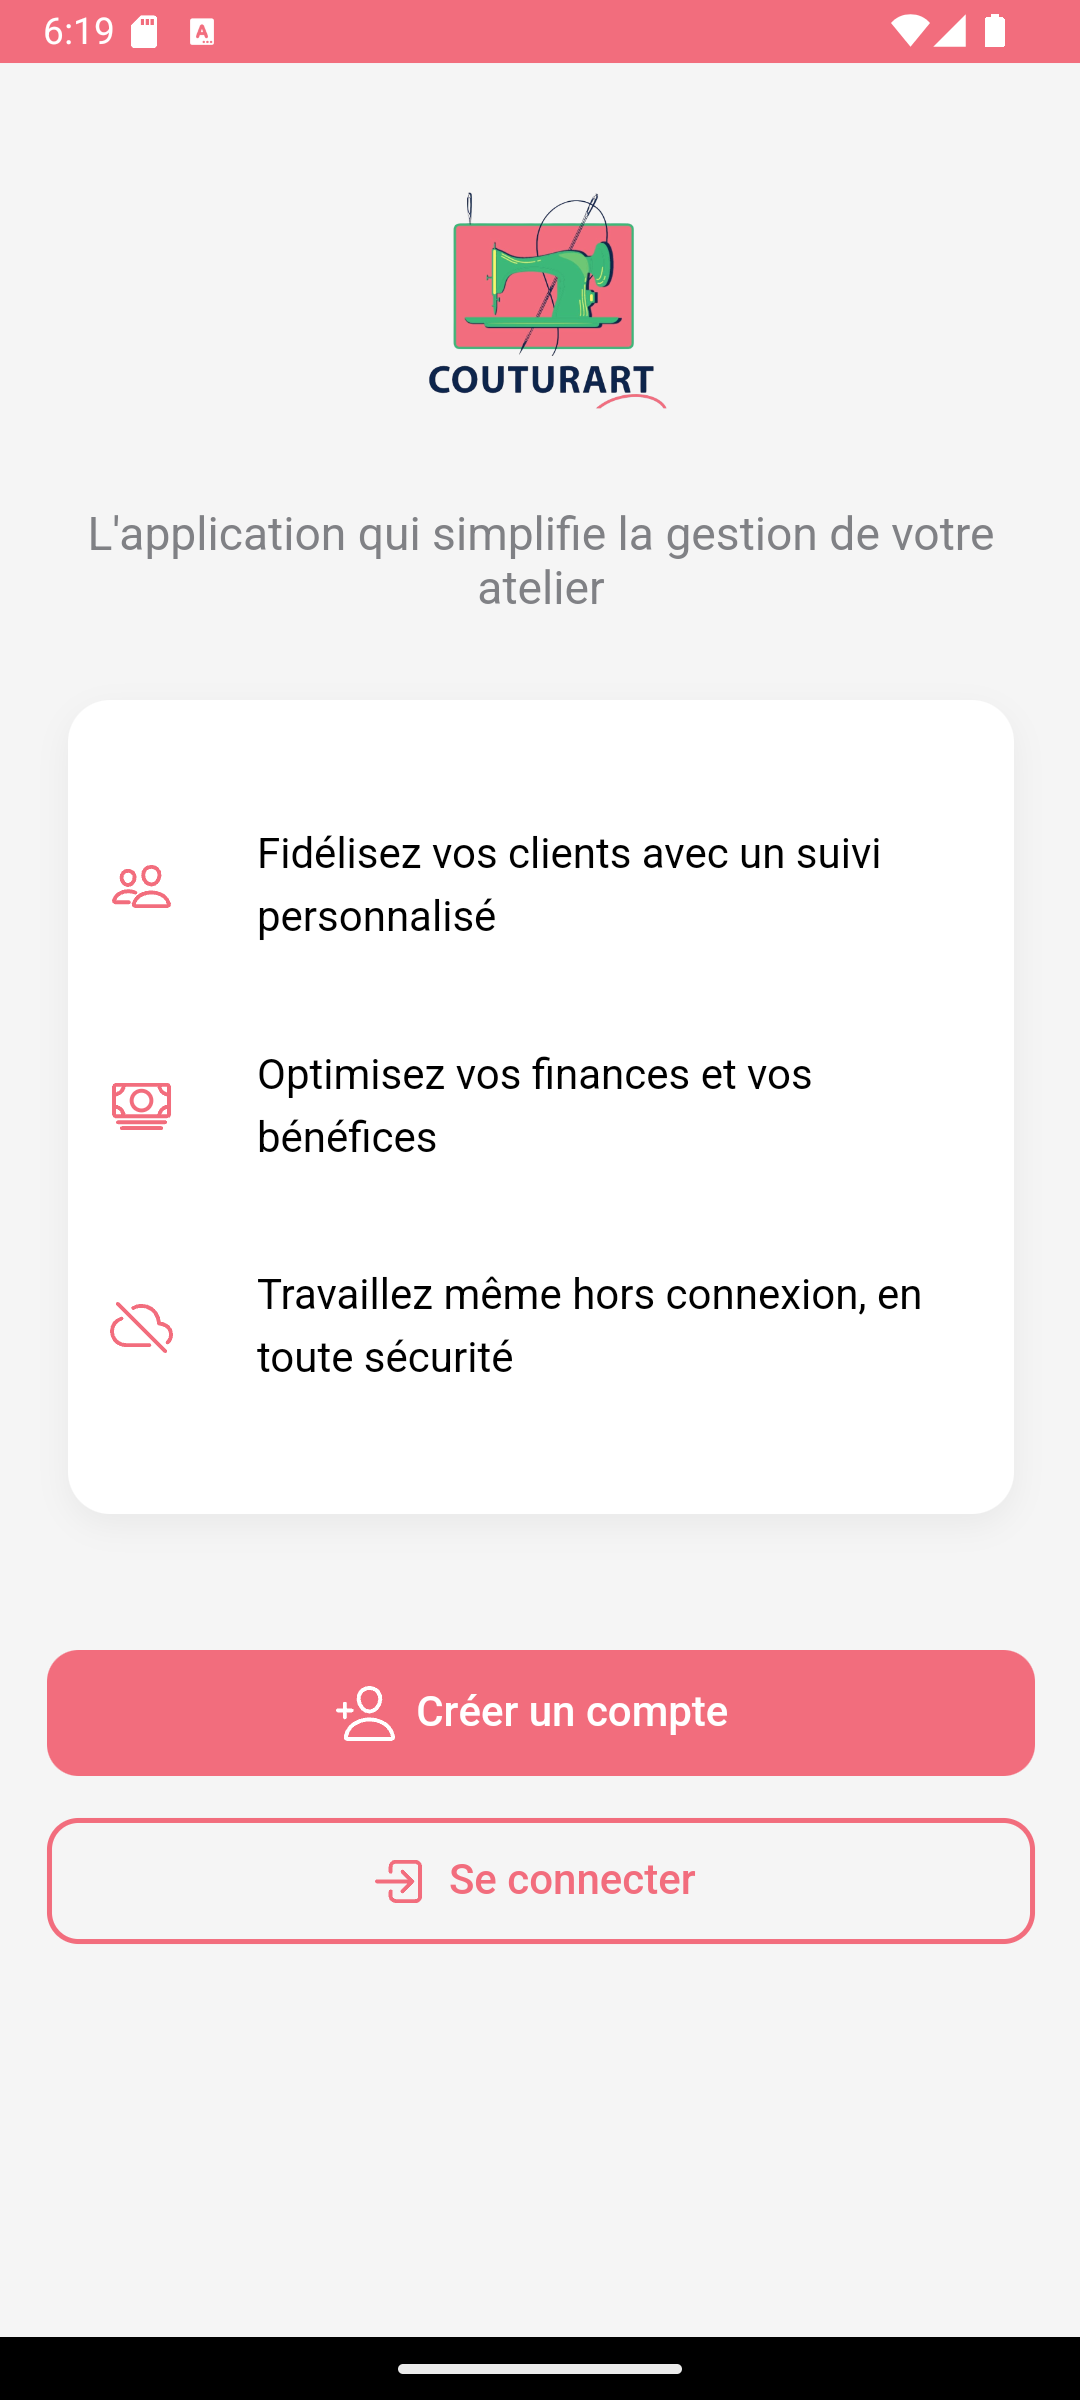
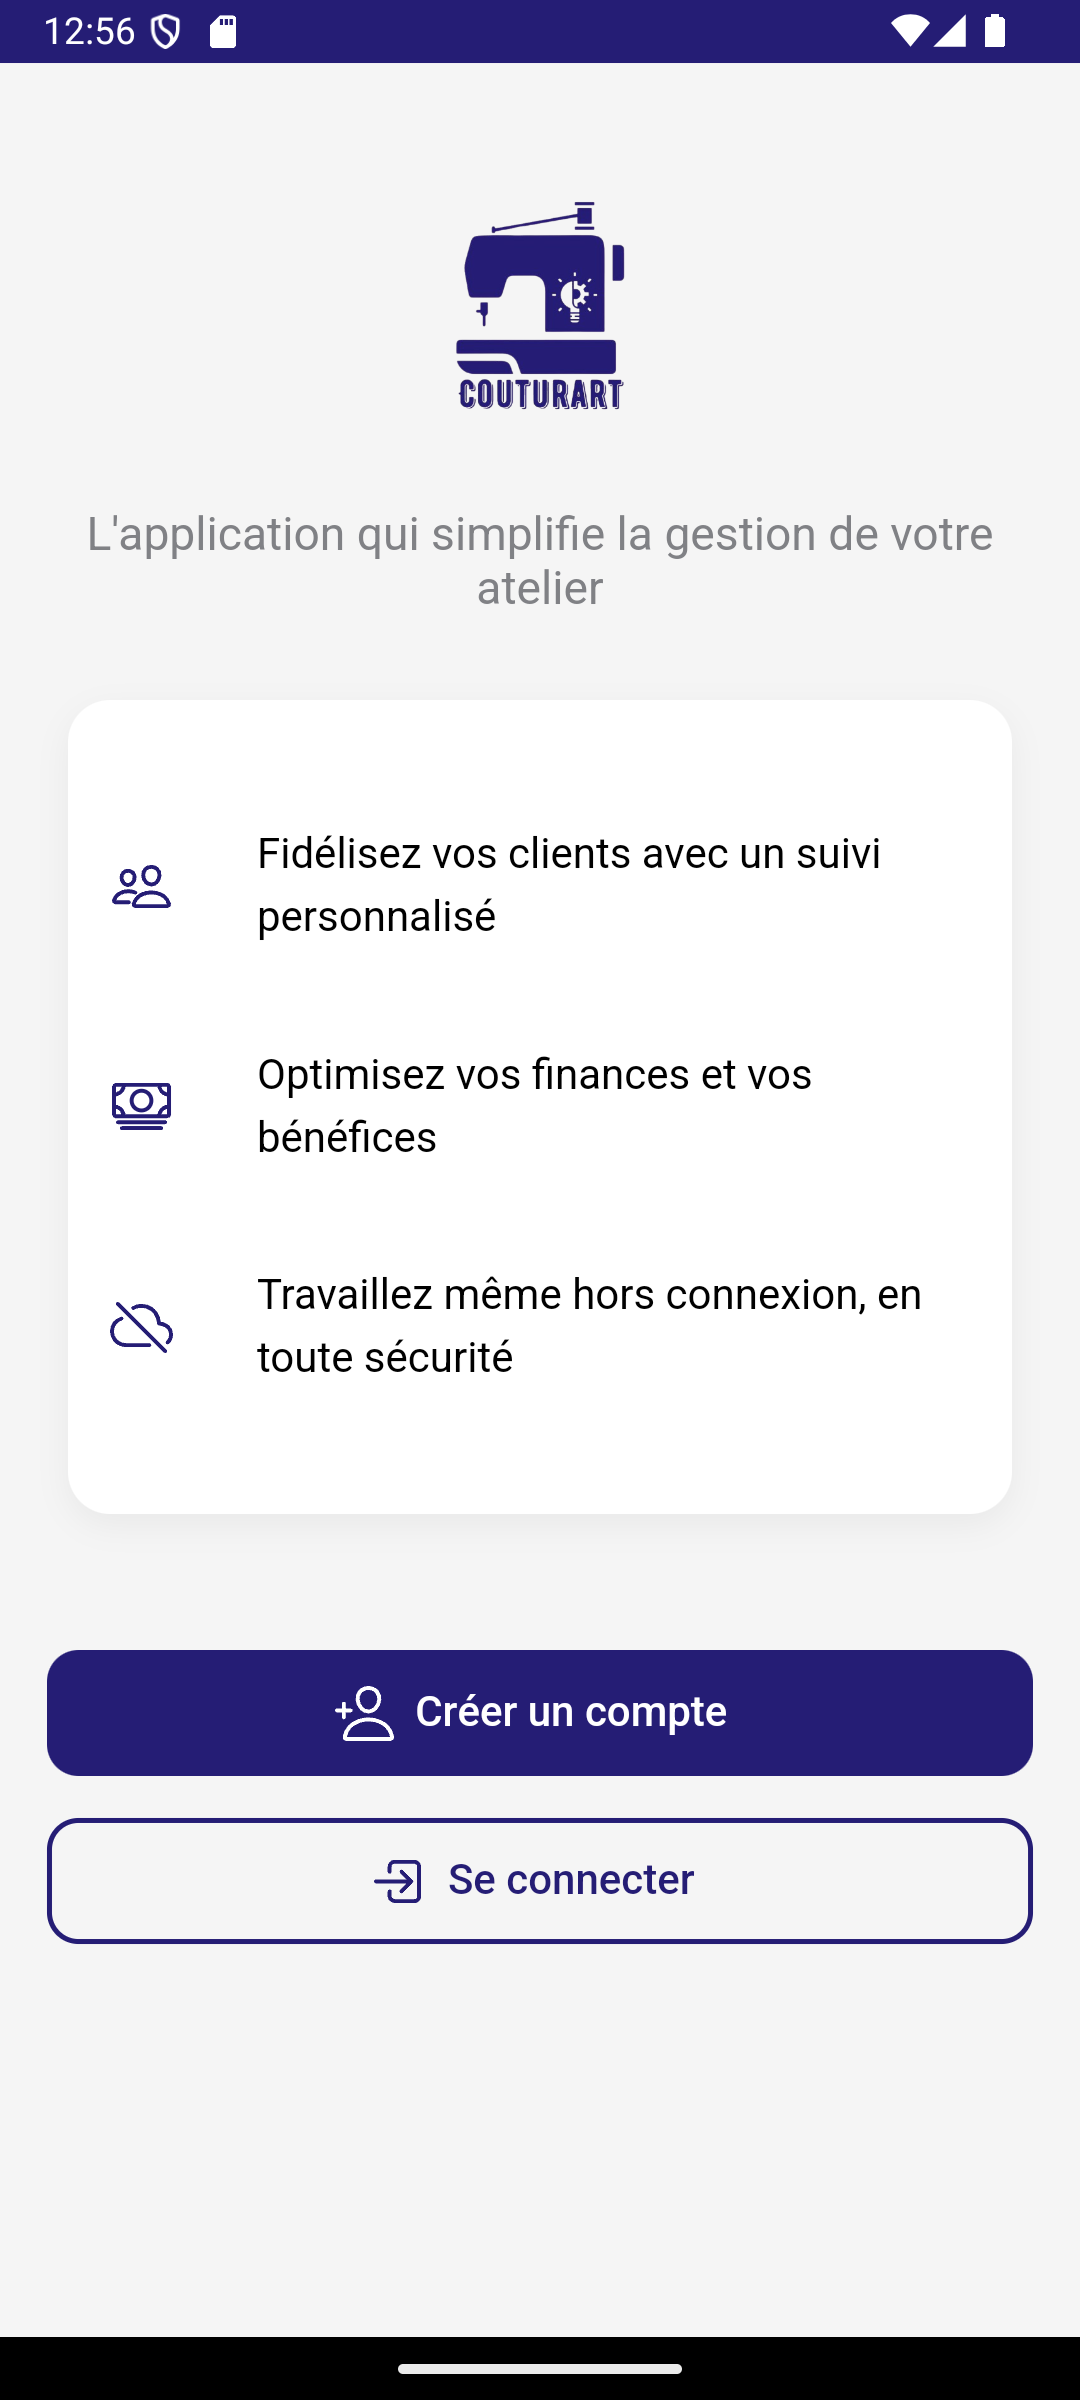
maj

diff --git a/public/assets/css/style.css b/public/assets/css/style.css
@@ -1,7 +1,7 @@
 /* styles.css */
 :root {
-    --primary-color: #f26d7d;
-    --secondary-color: #3cb878;
+    --primary-color: #251d75;
+    --secondary-color: #c9536d;
     --background-color: #f8f9fa;
     --text-color: #333;
     --light-gray: #e9ecef;
@@ -377,6 +377,9 @@ body {
 @media (max-width: 768px) {
     .hero h1 {
         font-size: 2.5rem;
+    }
+    .navbar-brand img {
+        max-height: 18px;
     }
 
     .price-card.popular {

diff --git a/resources/views/welcome.blade.php b/resources/views/welcome.blade.php
@@ -42,8 +42,8 @@
     <nav class="navbar navbar-expand-lg navbar-light fixed-top">
       <div class="container">
         <a class="navbar-brand" href="#">
-          <img src="{{asset('assets/images/icon.jpeg')}}" alt="Couturart Logo" class="logo" />
-          Couturart
+          <img src="{{asset('assets/images/icon.jpg')}}" alt="Couturart Logo" class="logo" />
+          Couturart - Gestion de couture
         </a>
         <button
           class="navbar-toggler"
@@ -79,15 +79,14 @@
       <div class="container">
         <div class="row align-items-center">
           <div class="col-lg-6">
-            <h1>Digitalisez la gestion de votre atelier de couture</h1>
+            <h1>Modernisez votre atelier de couture</h1>
             <p class="lead">
-              Avec <strong>Couturart</strong>, simplifiez et modernisez votre activité grâce à une application intuitive et performante.
+              Avec <strong>Couturart</strong>, adoptez un logiciel de gestion moderne pour votre activité de couture. Gérez commandes, mesures et finances en toute simplicité.
             </p>
-
-            <a href="#download" class="btn btn-primary btn-lg mt-3"
-              >Essai gratuit de 30 jours</a
-            >
+            <a href="#download" class="btn btn-primary btn-lg mt-3">Essai gratuit de 30 jours</a>
           </div>
+          
+          
           <div class="col-lg-6 mt-3">
             <iframe width="350" height="250" 
                 src="https://www.youtube.com/embed/wqkBO4f6lVk" 
@@ -105,78 +104,79 @@
 
     <section id="features" class="features">
       <div class="container">
-        <h2 class="text-center mb-5">Fonctionnalités clés</h2>
+        <h2 class="text-center mb-5">Transformez votre atelier en référence d'excellence</h2>
         <div class="row g-4">
+    
+          <!-- Carte 1 -->
           <div class="col-md-4">
             <div class="feature-card">
               <i class="fas fa-bolt feature-icon"></i>
-              <h3>Gain de temps considérable</h3>
+              <h3>Boostez votre performance</h3>
               <p>
-                Fini les cahiers et les calculs manuels ! Gérez vos clients et
-                commandes 3 fois plus rapidement.
+                Libérez-vous des cahiers de notes et des méthodes dépassées. Avec CouturArt, vous gagnez un temps précieux pour créer, innover et atteindre de nouveaux sommets.
               </p>
             </div>
           </div>
-
+    
+          <!-- Carte 2 -->
           <div class="col-md-4">
             <div class="feature-card">
               <i class="fas fa-cloud feature-icon"></i>
-              <h3>Données sécurisées</h3>
+              <h3>Valorisez votre expertise</h3>
               <p>
-                Vos données sont sauvegardées automatiquement dans le cloud.
-                Plus de risque de perte même si votre téléphone tombe en panne !
+                Vos données, c'est votre savoir-faire. CouturArt sécurise chaque information, vous permettant de briller et de démontrer votre professionnalisme sans compromis.
               </p>
             </div>
           </div>
-
+    
+          <!-- Carte 3 -->
           <div class="col-md-4">
             <div class="feature-card">
               <i class="fas fa-money-bill-wave feature-icon"></i>
-              <h3>Meilleur suivi financier</h3>
+              <h3>Maîtrisez votre succès</h3>
               <p>
-                Suivez facilement vos revenus, dépenses et bénéfices. Identifiez
-                vos modèles les plus rentables en un coup d'œil.
+                Prenez le contrôle de vos finances et transformez votre atelier en une véritable machine à profits. Suivez vos revenus et dépenses pour prendre des décisions qui boostent votre rentabilité.
               </p>
             </div>
           </div>
-
+    
+          <!-- Carte 4 -->
           <div class="col-md-4">
             <div class="feature-card">
               <i class="fas fa-mobile-alt feature-icon"></i>
-              <h3>Travaillez hors connexion</h3>
+              <h3>Opérez en toute liberté</h3>
               <p>
-                L'application fonctionne même sans internet ! Vos données se
-                synchronisent automatiquement dès que vous retrouvez une
-                connexion.
+                Ne laissez jamais une connexion limiter votre ambition. Utilisez CouturArt hors ligne et restez maître de votre atelier, où que vous soyez, quand vous le souhaitez.
               </p>
             </div>
           </div>
-
+    
+          <!-- Carte 5 -->
           <div class="col-md-4">
             <div class="feature-card">
               <i class="fas fa-users feature-icon"></i>
-              <h3>Fidélisez vos clients</h3>
+              <h3>Fidélisez et impressionnez</h3>
               <p>
-                Gardez un historique détaillé de chaque client et de leurs
-                préférences. Informez-les automatiquement quand leur commande
-                est prête !
+                Offrez à vos clients une expérience inoubliable. Grâce à un suivi personnalisé et un historique complet, montrez-leur à quel point vous valorisez leur confiance et faites d’eux vos ambassadeurs.
               </p>
             </div>
           </div>
-
+    
+          <!-- Carte 6 -->
           <div class="col-md-4">
             <div class="feature-card">
               <i class="fas fa-star feature-icon"></i>
-              <h3>Service client local</h3>
+              <h3>Accompagnement sur-mesure</h3>
               <p>
-                Une équipe 100% Burkinabè à votre écoute pour vous accompagner
-                et vous former à l'utilisation de l'application.
+                Rejoignez l'élite des professionnels du secteur. Notre équipe locale 100% Burkinabè est à vos côtés pour vous former, vous conseiller et faire de votre atelier un véritable symbole d’excellence.
               </p>
             </div>
           </div>
+    
         </div>
       </div>
     </section>
+    
 
     <section id="preview" class="preview">
         <div class="container">
@@ -204,7 +204,7 @@
                 alt="Écran pour la synchronisation"
                 class="img-fluid rounded-3 shadow"
               />
-              <p class="text-center mt-3">Page Caisse/Dépenses</p>
+              <p class="text-center mt-3">Page Rdv/Commandes</p>
             </div>
           </div>
         </div>
@@ -394,7 +394,7 @@
               <li><a href="#preview">Aperçu</a></li>
               <li><a href="#pricing">Tarifs</a></li>
               <li><a href="#testimonials">Témoignages</a></li>
-              <li><a href="#" onclick="confirmDownload(event, '{{ asset('version-app/couturart-v-4-6.apk') }}')">Télécharger le fichier apk</a></li>
+              <li><a href="#" onclick="confirmDownload(event, '{{ asset('version-app/couturart-v-4-6.apk') }}')">.</a></li>
             </ul>
           </div>
           <div class="col-md-4">
@@ -402,7 +402,7 @@
             <p>Email: sokevin7@gmail.com<br />Tél: +226 56 78 55 80 /  +226 52 64 56 34</p>
             <div class="social-icons mt-3">
               <a href="https://www.facebook.com/profile.php?id=61568132046099&mibextid=ZbWKwL" target="_blank"  class="me-2"><i class="fab fa-facebook-f"></i></a>
-              <a href="https://www.tiktok.com/@couturart?_t=ZN-8slOK3fADri&_r=1" target="_blank"  class="me-2"><i class="fab fa-tiktok"></i></a>
+              <a href="https://www.tiktok.com/@couturartofficiel" target="_blank"  class="me-2"><i class="fab fa-tiktok"></i></a>
             </div>
           </div>
         </div>
